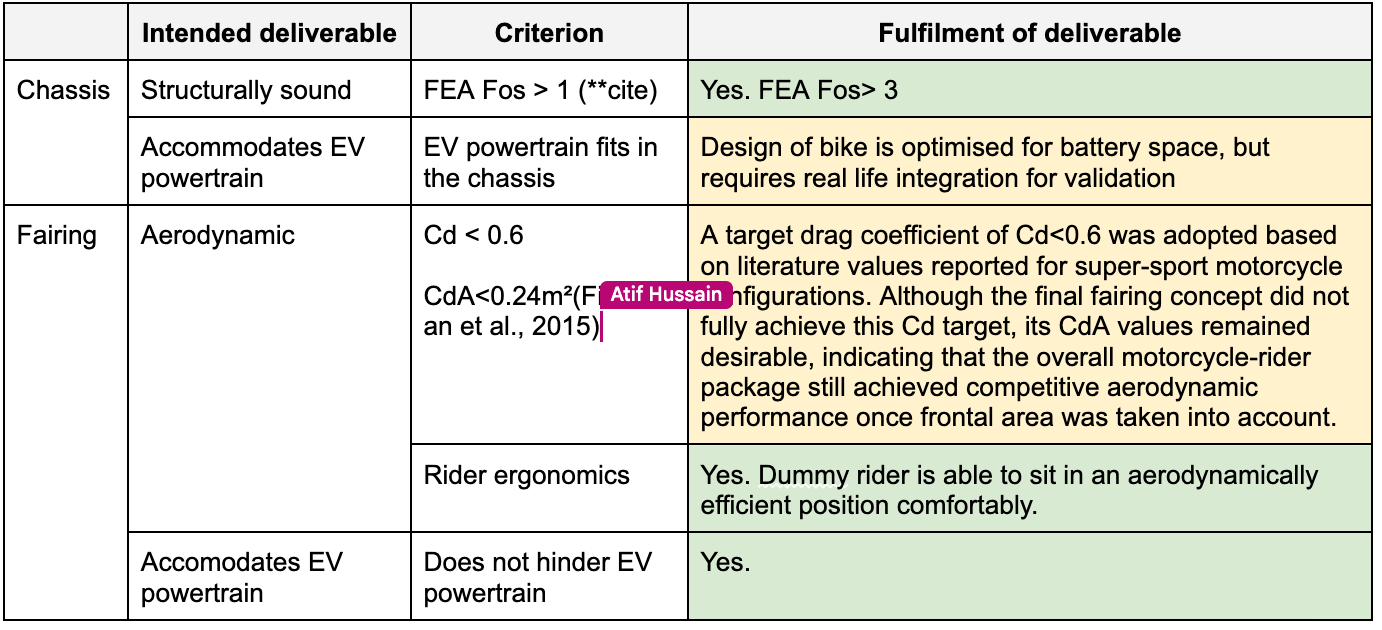
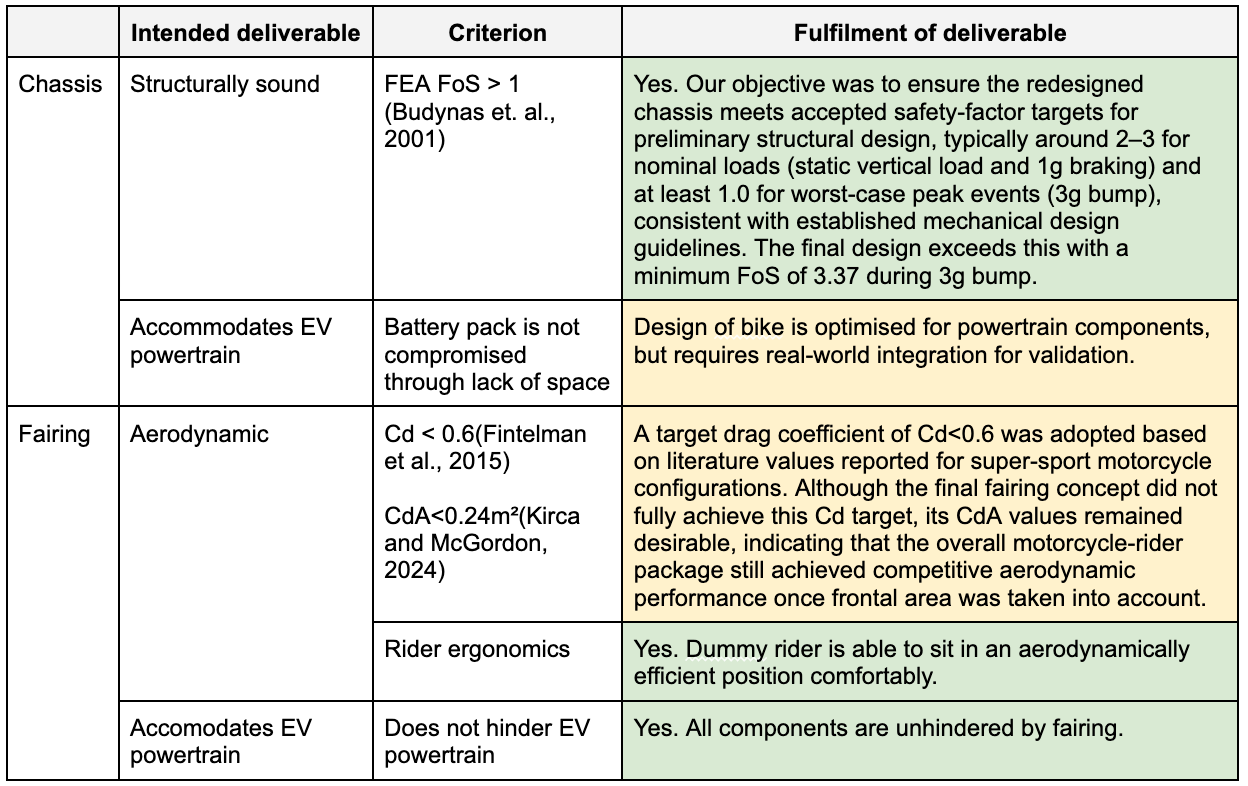
7

diff --git a/index.html b/index.html
@@ -514,11 +514,67 @@
               <h2>5.2 CFD - Fairing</h2>
 
               <h2>5.2.1 CFD mesh and computational domain</h2>
-              <image-component tag="image" source="assets/fairing CFD calculations.png"
-              subtitle="Figure 7XX: Integrated Chassis "></image-component>
+
 
               <image-component tag="image" source="assets/fairing boundary .png"
               subtitle="Figure 7XX: Boundary Conditions "></image-component>
+
+              <p>The CFD studies were conducted using a half-model at 150 km/h. The half-model approach was adopted because the motorcycle geometry was symmetric about the centre plane, allowing the computational domain to be reduced through the use of symmetry boundary conditions (COMSOL, n.d.). The selected speed of 150 km/h was chosen as a representative high-speed operating condition and lies within the 150 to 180 km/h range reported in the literature (González-Arcos and Gamez-Montero, 2023).
+
+              </p>
+              <p>For the external aerodynamic simulations, the computational domain was defined based on established external-flow CFD practice, with the inlet, outlet, and far-field boundaries placed sufficiently far from the motorcycle to minimise blockage effects and allow wake development (Wiński and Piechna, 2022). Boundary conditions were kept consistent across all design iterations to ensure that differences in results were attributable to geometry changes alone.
+
+              </p>
+              <p>To better represent on-road conditions, the floor was modelled as a moving wall at 150 km/h, while the wheels were assigned a rotational speed of 47.1 rad/s corresponding to the same vehicle speed.
+
+              </p>
+
+              <image-component tag="image" source="assets/fairing CFD mesh.png"
+              subtitle="Figure 5.2.2: Solution adaptive mesh- Mesh at start of simulation, Mesh at end of simulation (left to right)    "></image-component>
+              <h4>Drag Equation
+              </h4>
+              <image-component tag="image" source="assets/fairing CFD calculations.png"
+              subtitle="Figure 5.2.3: Drag Equation "></image-component>
+
+              <image-component tag="image" source="assets/fairing CFD plot summary.png"
+              subtitle="Figure 5.2.3: Drag Equation "></image-component>
+              
+              <div id="section-header-5-2-2">
+                <h2>5.2.2 CFD - Naked Fairing</h2>
+
+                <image-component tag="image" source="assets/fairing CFD naked.png"
+                subtitle="Figure 5.2.1.1: Pressure cut plot for naked fairing showing many areas of pressure build up"></image-component>
+
+                <image-component tag="image" source="assets/fairing CFD naked results.png"
+                subtitle="Figure 5.2.1.2: Drag and Cd values for Naked Fairing"></image-component>
+
+                <p>This simulation was run so as to have a baseline, although this is a very idealised baseline as it was done with a human model in the aero position. It would prove more accurate when done with the human model in upright position which is what the naked fairing concept was designed for. 
+                  
+                </p>
+
+
+                <div id="section-header-5-2-3">
+                  <h2>5.2.3 CFD - Full Fairing</h2>
+                    <p>Final Iteration</p>
+    
+                  <image-component tag="image" source="assets/fairing CFD full final iteration.png"
+                  subtitle="Figure 5.2.10 Final iteration for Full Fairing Front and Side view"></image-component>
+    
+                  <image-component tag="image" source="assets/fairing CFD full observation.png"
+                  subtitle="Figure 5.2.3: Drag Equation "></image-component>
+    
+                  <image-component tag="image" source="assets/fairing CFD full result.png"
+                  subtitle="Figure 5.2.3: Drag Equation "></image-component>
+    
+                  <image-component tag="image" source="assets/fairing CFD full feature.png"
+                  subtitle="Figure 5.2.3: Drag Equation "></image-component>
+    
+                  <p>Although the fairing records a higher Cd than values often reported for supersport motorcycles, its CdA is much more competitive, which means the overall bike-rider package still presents low aerodynamic resistance. Our concept achieved about 0.198 m² in the first iteration and 0.162 m² in the final iteration, while published benchmarks for tucked electric sport motorcycles are around 0.325 m² for a Ducati V4S and 0.347 m² for an Energica Ego+RS (Kirca and McGordon, 2024). 
+                    This suggests that, despite being less shape-efficient in pure Cd terms, our fairing performs comparably to high-performance sports bike fairings once frontal area is taken into account through CdA.</p>
+              <image-component tag="image" source="assets/fairing CFD final components.png"
+              subtitle="Figure 5.2.3: Drag Equation "></image-component>
+
+
 
           <sl-divider></sl-divider>
       <div>
@@ -534,57 +590,63 @@
 
           <h3> Load Test 1: Seat Bending </h3>
           <image-component tag="image" source="assets/load test 1.png"
-          subtitle="Figure 7XX: Boundary Conditions "></image-component> 
+          subtitle="Figure 6.1.1: Load Test 1 set up "></image-component> 
           <image-component tag="image" source="assets/load test 1 results.png"
-          subtitle="Figure 7XX: Boundary Conditions "></image-component> 
+          subtitle="Figure 6.1.2: Load Test 1  vs FEA results "></image-component> 
 
             <h3>Load Test 2: Braking Load </h3>
             <image-component tag="image" source="assets/load test 2.png"
-            subtitle="Figure 7XX: Boundary Conditions "></image-component>
+            subtitle="Figure 6.1.3: Load Test 2 set up "></image-component>
             <image-component tag="image" source="assets/load test 2 results.png"
-            subtitle="Figure 7XX: Boundary Conditions "></image-component> 
+            subtitle="Figure 6.1.4: Load Test 2  vs FEA results "></image-component> 
 
             <h3>Load Tests Conclusion </h3>
-            The comparison between FEA and load tests is summarised in Figure below.
+            The comparison between FEA and load tests is summarised in Figure 6.1.5.
             <image-component tag="image" source="assets/load test conclusion.png"
-            subtitle="Figure 7XX: Boundary Conditions "></image-component> 
+            subtitle="Figure 6.1.5: Comparison between FEA and Load Test "></image-component> 
 
   
       <div id="sub-section-6-header-2">
         <h3>6.2 Fairing</h3>
         <p>
-          The fairing system requires further refinement, as the current design is a minimalist, wrap-around which may not optimise aerodynamic performance or thermal management. 
-          Prior studies highlight that fairing geometry directly affects drag, lift, and component cooling (Winski et al, 2022). 
-          Consequently, CFD simulations will be undertaken to evaluate airflow distribution and cooling performance, guiding iterative improvements in fairing shape and vent placement.
+          The only way to verify our CFD results, would be through wind tunnel testing.
+        However, there are no local facilities. As such, we decided to verify the design of our fairings through the manufacturing processe. 
+        A summary can be seen in Figure 6.2.1.
         </p>
+        <image-component tag="image" source="assets/fairing 3d validation.png"
+        subtitle="Figure 6.2.1: Summary of fairing validation methodology "></image-component> 
+        <p>The rapid prototyping, using scaled down designs, enabled us to bring the design to life (Figure 6.2.1). 
+          Enabling us to make improvements through close up inspections as well as gather feedback from fellow riders regarding the aesthetics. </p>
+        <image-component tag="image" source="assets/fairing 3d iteration.png"
+        subtitle="Figure 6.2.2: 3D printed prototypes"></image-component> 
 
 
 <sl-divider></sl-divider>
       <div id="section-header-7">
         <h2>7. Fulfilment of Deliverables</h2>
           <p>
-            The intended deliverables of the project, together with their corresponding level of fulfilment, are presented in Table X.
+            The intended deliverables of the project, together with their corresponding level of fulfilment, are presented in Figure 7.1.
           </p>
           <image-component tag="image" source="assets/FOD.png"
-          subtitle="Figure 7XX: Fulfilment of Deliverables "></image-component>
+          subtitle="Figure 7.1: Summary of this project's fulfilment of deliverables "></image-component>
 
       <div id="sub-section-7-header-2">
         <h3>7.1 Gantt Chart</h3>
         <p>
-          Our project timeline is summarised in <i>Figure 7.1</i>.
+          Our project timeline is summarised in <i>Figure 7.1.1</i>.
         </p>
         <image-component tag="image" source="assets/onlinegantt.png"
-          subtitle="Figure 7.1: Project Timeline in Gantt Chart "></image-component>
+          subtitle="Figure 7.1.1: Project Timeline in Gantt Chart "></image-component>
 
 
 <sl-divider></sl-divider>
           <div id="section-header-8">
             <h2>8. Future Work</h2>
               <p>
-                The potential gaps in the present study and the corresponding future work for improving the end product are outlined in Figure 8.
+                The potential gaps in the present study and the corresponding future work for improving the end product are outlined in Figure 8.1.
               </p>
               <image-component tag="image" source="assets/future work.png"
-              subtitle="Figure 8: Potential Future Work"></image-component>
+              subtitle="Figure 8.1: Potential Future Work"></image-component>
               
               <sl-divider></sl-divider>
               <div id="section-header-9">
